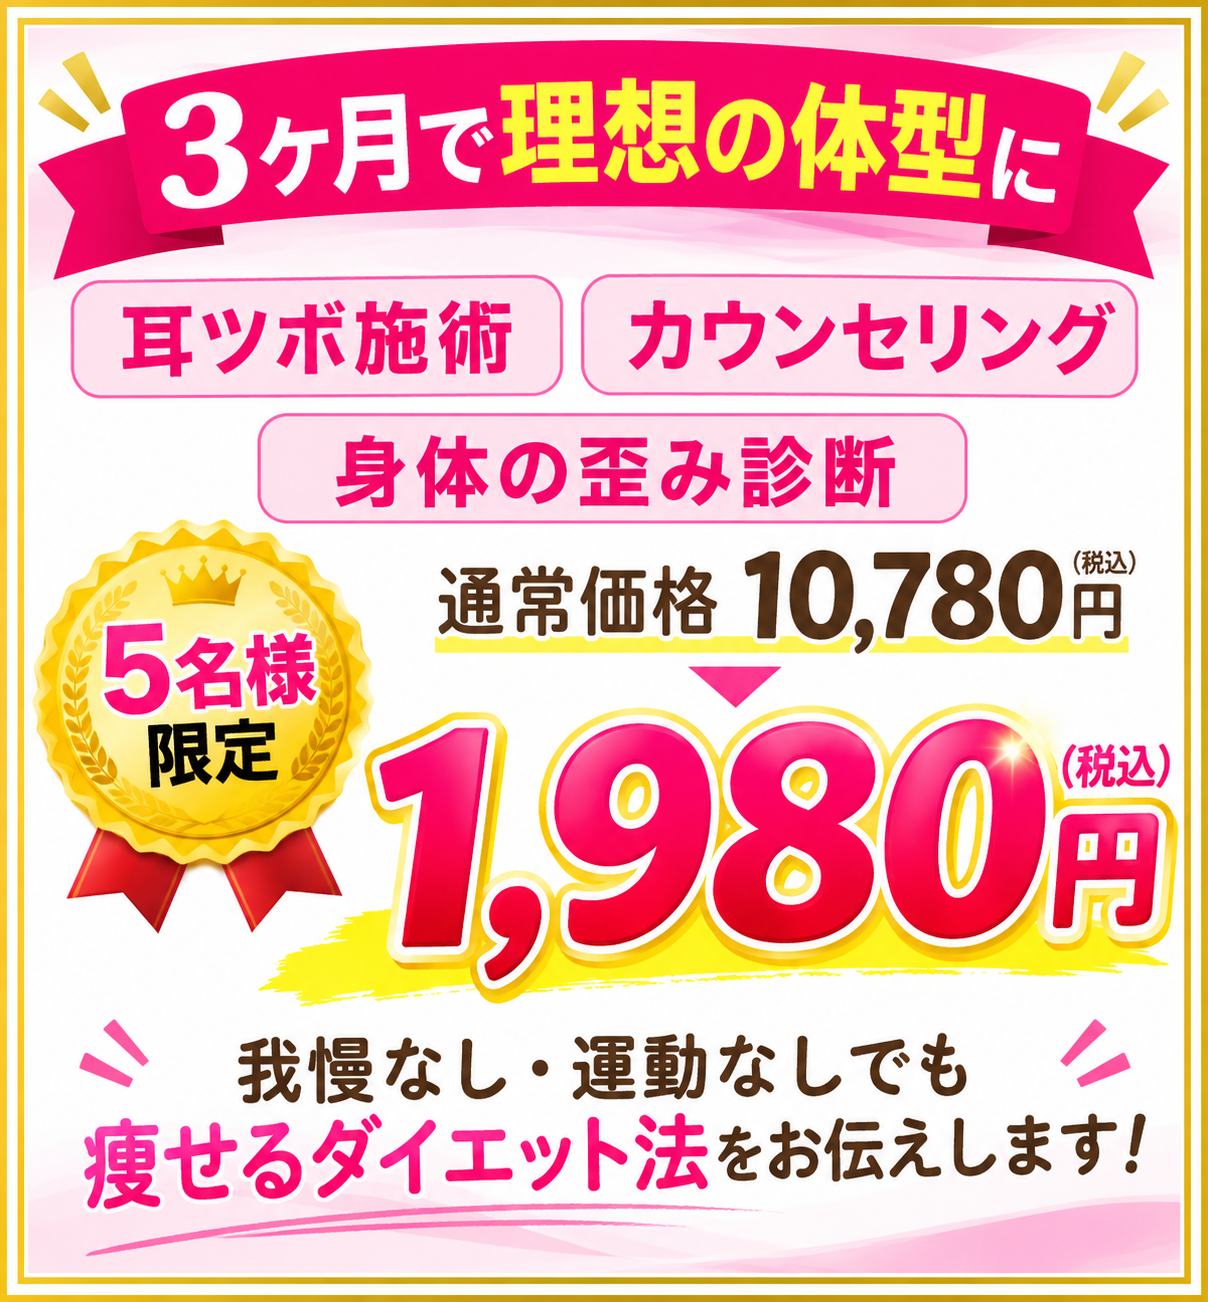
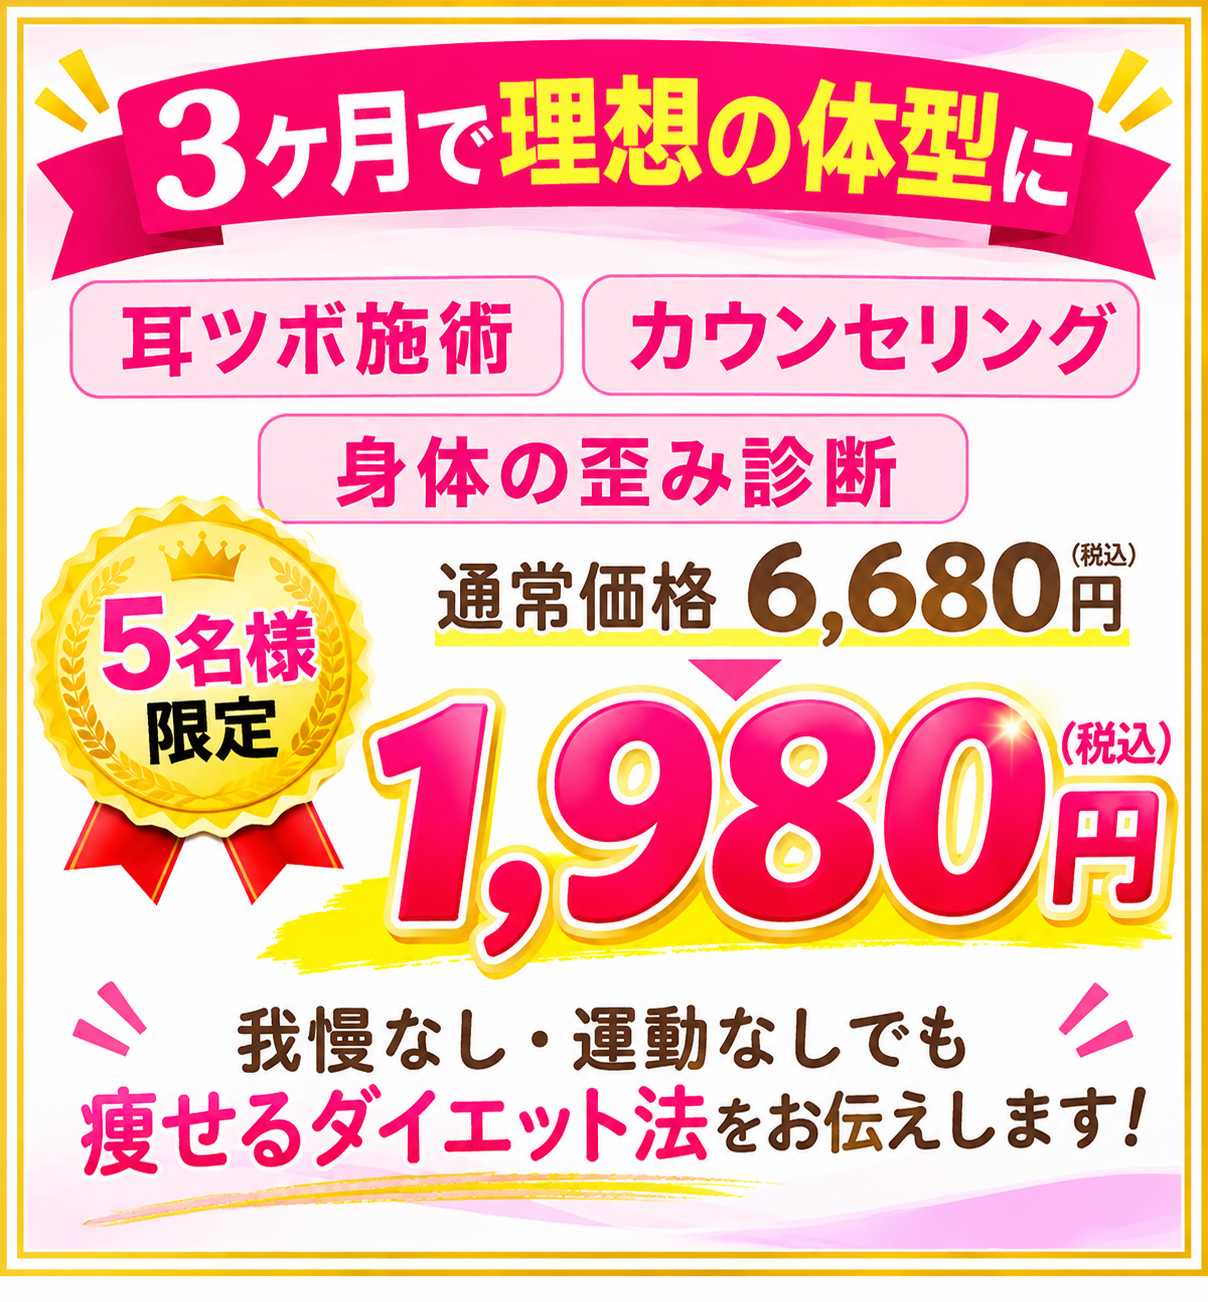
update ver1.0.5 - change image

diff --git a/index.html b/index.html
@@ -439,7 +439,7 @@
             </details>
             <details class="faq-item">
               <summary class="faq-item-summary">受付時間は何時までですか？</summary>
-              <p class="faq-item-text">初回体験の方は20時までです。</p>
+              <p class="faq-item-text">初回体験の方は18時までです。</p>
             </details>
             <details class="faq-item">
               <summary class="faq-item-summary">予約制ですか？</summary>
@@ -461,7 +461,7 @@
         <h2 class="access-title">アクセス</h2>
         <div class="access-inner">
           <div class="access-image">
-            <img decoding="async" src="https://active-life-support.com/02/wp-content/uploads/2026/07/access.webp" alt="アクセス" loading="lazy">
+            <img decoding="async" src="images/access.jpg" alt="アクセス" loading="lazy">
           </div>
           <table class="access-table">
             <tr>
